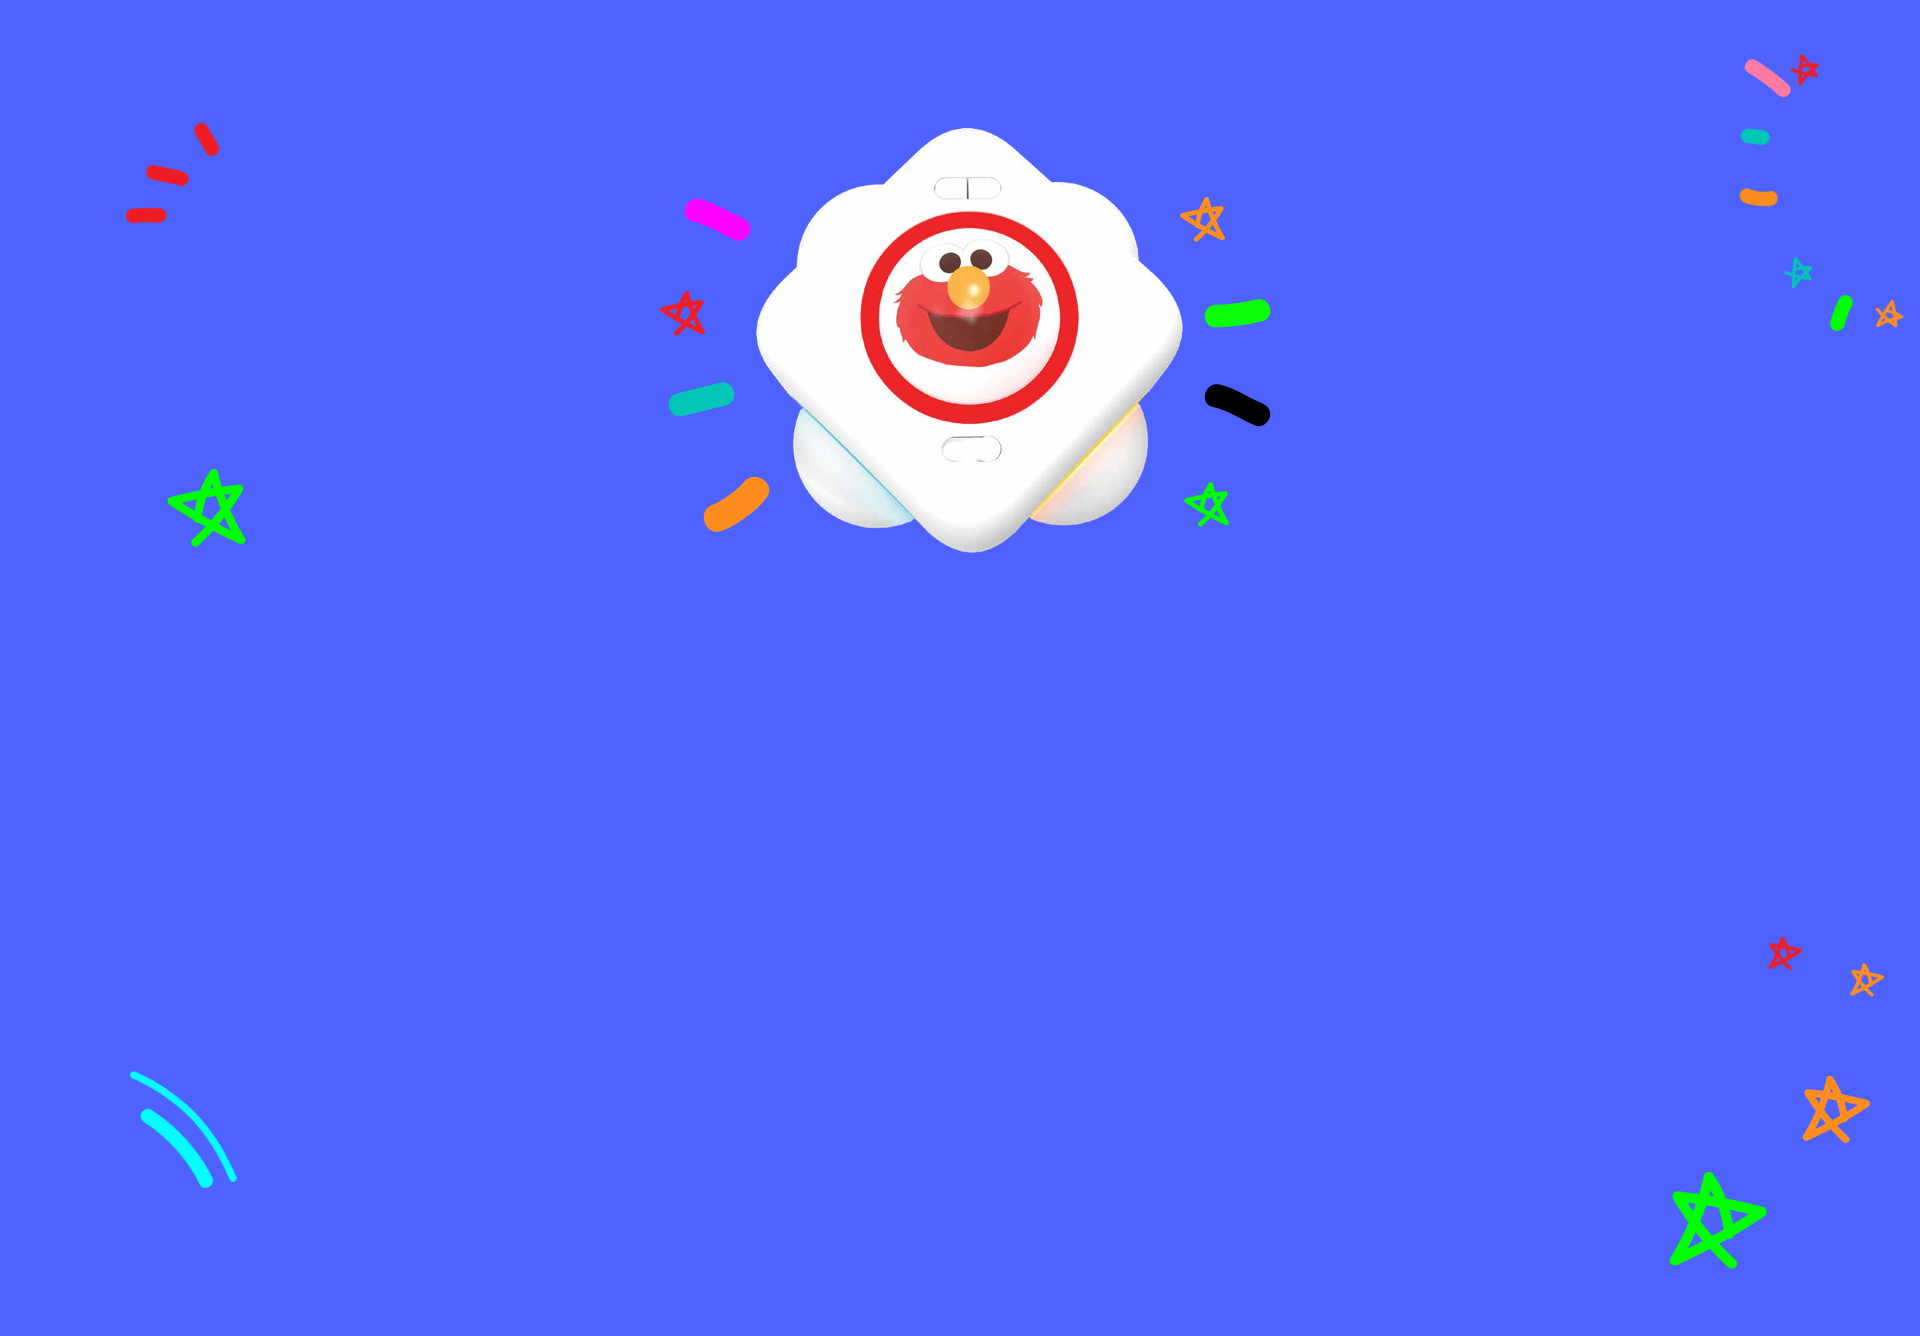
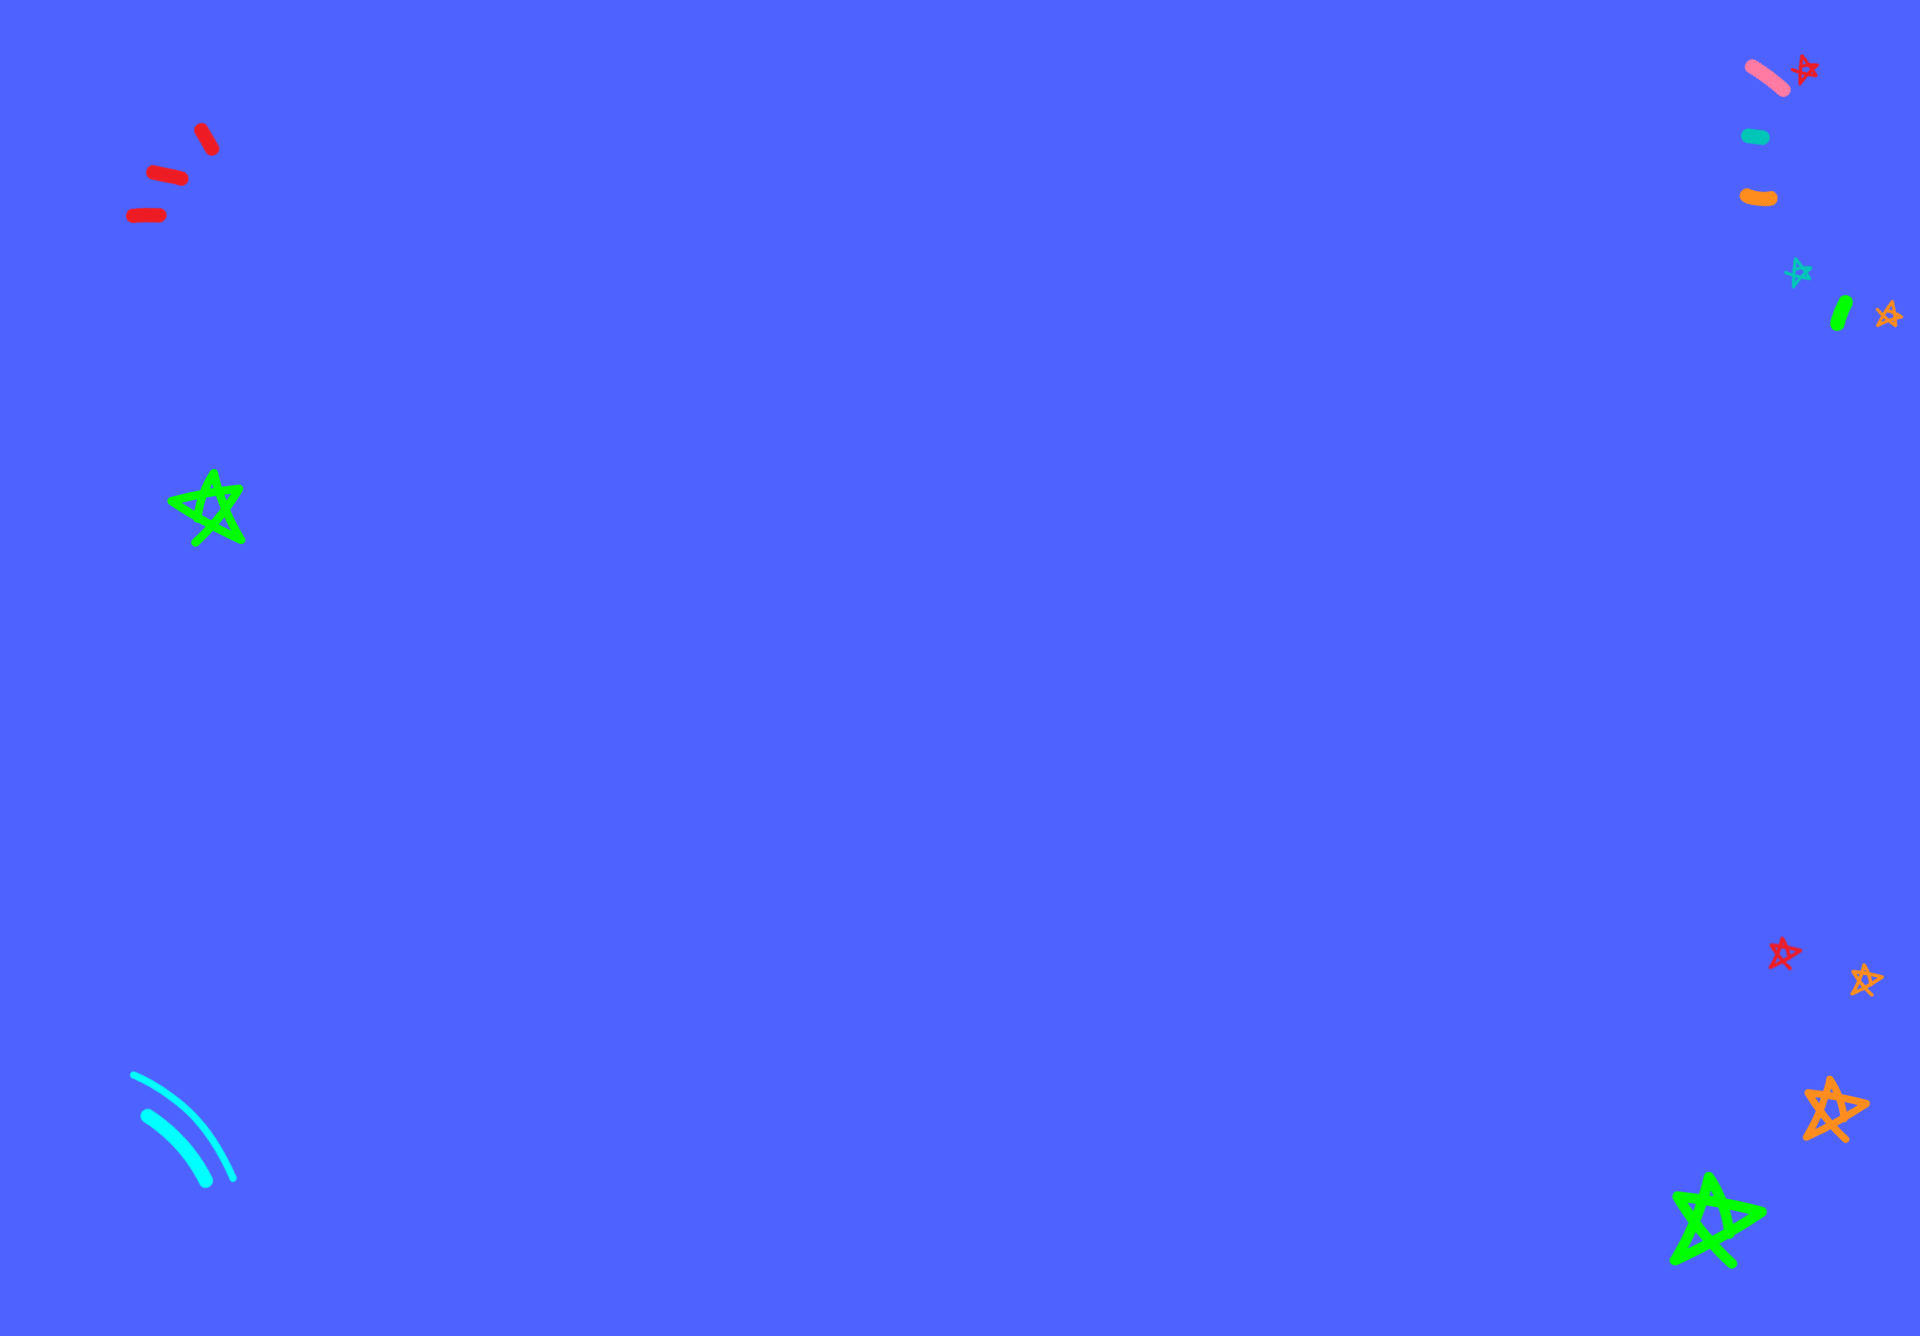
edited faq

Changed region(s): [[0.3438, 0.0921, 0.6562, 0.4296], [0.625, 0.3683, 0.6562, 0.399]]

diff --git a/src/Components/Home/Faq.js b/src/Components/Home/Faq.js
@@ -1,33 +1,116 @@
 import React from 'react';
 import { Container, Accordion, Card, Button } from 'react-bootstrap';
 import FAQ from '../../images/FAQ.png';
+import { RegularTitle } from '../RegularTitle';
+import SkoogFun from '../../images/SkoogFun.png';
+import { isXs } from '../../Utils/MediaQueries';
+import { blue } from '../../Utils/ColorPalette';
 
 export const Faq = () => {
 	const styles = {
-		faqBg: {
+		faqBgDesktop: {
 			backgroundImage: `url(${FAQ})`,
 			backgroundColor: '#cccccc',
-			height: '120vh',
+			height: '100%',
 			backgroundPosition: 'center',
 			backgroundRepeat: 'no-repeat',
 			backgroundSize: 'cover',
-			padding: '0',
+			padding: '4rem 0',
+		},
+		faqBgMobile: {
+			backgroundColor: `${blue}`,
+			height: '100%',
+			padding: '4rem 0',
 		},
 	};
 
 	return (
-		<Container fluid style={styles.faqBg}>
-			<Container style={{ paddingTop: '30%' }}>
-				<h1>FAQ</h1>
+		<Container
+			fluid
+			style={isXs.matches ? styles.faqBgMobile : styles.faqBgDesktop}
+		>
+			<Container
+				style={
+					isXs.matches
+						? { width: '90%', padding: '4rem 0' }
+						: { width: '50%', padding: '6rem 0' }
+				}
+			>
+				<Container
+					style={
+						isXs.matches
+							? { width: '90%', paddingBottom: '2rem' }
+							: { width: '70%', paddingBottom: '6rem' }
+					}
+				>
+					<img src={SkoogFun} alt='' width='100%' />
+				</Container>
+
+				<RegularTitle title={'SKOOG PLAY FAQ'} styling={{ color: 'white' }} />
 				<Accordion>
 					<Card style={{ backgroundColor: 'transparent', border: 'none' }}>
 						<Card.Header>
 							<Accordion.Toggle as={Button} variant='link' eventKey='0'>
-								Click me!
+								<h4 style={{ color: 'white' }}>
+									What is the appropriate age range for the Skoog?
+								</h4>
 							</Accordion.Toggle>
 						</Card.Header>
 						<Accordion.Collapse eventKey='0'>
-							<Card.Body>Hello! I'm the body</Card.Body>
+							<Card.Body>
+								<p style={{ color: 'white' }}>
+									The Skoog can be used with children as young as three and will grow
+									along with the child. Interchanging Wonder Dots allow for ever
+									expanding content.
+								</p>
+							</Card.Body>
+						</Accordion.Collapse>
+					</Card>
+					<Card style={{ backgroundColor: 'transparent', border: 'none' }}>
+						<Card.Header>
+							<Accordion.Toggle as={Button} variant='link' eventKey='0'>
+								<h4 style={{ color: 'white' }}>Can My Child Play this Without Me?</h4>
+							</Accordion.Toggle>
+						</Card.Header>
+						<Accordion.Collapse eventKey='0'>
+							<Card.Body>
+								<p style={{ color: 'white' }}>
+									The Skoog can be a great family activity, but with headphone ports,
+									children can play and learn on their own, without disrupting people
+									around them
+								</p>
+							</Card.Body>
+						</Accordion.Collapse>
+					</Card>
+					<Card style={{ backgroundColor: 'transparent', border: 'none' }}>
+						<Card.Header>
+							<Accordion.Toggle as={Button} variant='link' eventKey='0'>
+								<h4 style={{ color: 'white' }}>Can I use the Skoog on the Go?</h4>
+							</Accordion.Toggle>
+						</Card.Header>
+						<Accordion.Collapse eventKey='0'>
+							<Card.Body>
+								<p style={{ color: 'white' }}>
+									Yes! Skoog comes with a USB charging cord and an expected battery life
+									of ** hours. The headphone jack is great to let kids play no matter
+									where they are!
+								</p>
+							</Card.Body>
+						</Accordion.Collapse>
+					</Card>
+					<Card style={{ backgroundColor: 'transparent', border: 'none' }}>
+						<Card.Header>
+							<Accordion.Toggle as={Button} variant='link' eventKey='0'>
+								<h4 style={{ color: 'white' }}>What is included in the Starter Set?</h4>
+							</Accordion.Toggle>
+						</Card.Header>
+						<Accordion.Collapse eventKey='0'>
+							<Card.Body>
+								<p style={{ color: 'white' }}>
+									When you order a Skoog Starter Set, you'll receive 4 Wonder Dots, a USB
+									charging cord, and instructions to get you playing right away.
+								</p>
+							</Card.Body>
 						</Accordion.Collapse>
 					</Card>
 				</Accordion>

diff --git a/src/Components/Navigation.js b/src/Components/Navigation.js
@@ -14,7 +14,7 @@ export const Navigation = () => {
 			variant='dark'
 			style={{ background: `${blue}` }}
 		>
-			<Navbar.Brand href='/' style={{ padding: '0 4rem' }}>
+			<Navbar.Brand href='/'>
 				<img src={SkoogLogoWhite} alt='Skoog Logo White' />
 			</Navbar.Brand>
 			<Navbar.Toggle aria-controls='responsive-navbar-nav' />
